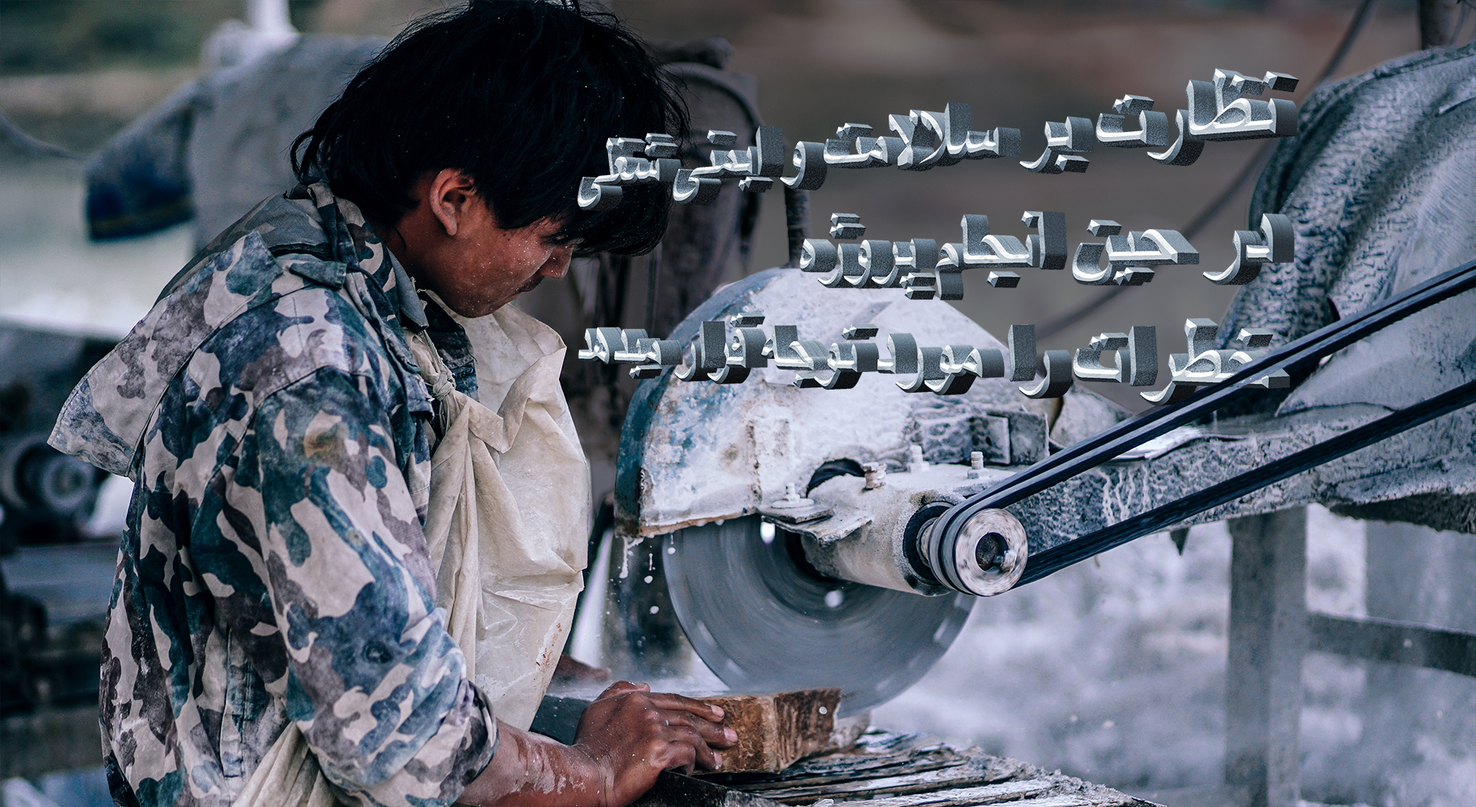
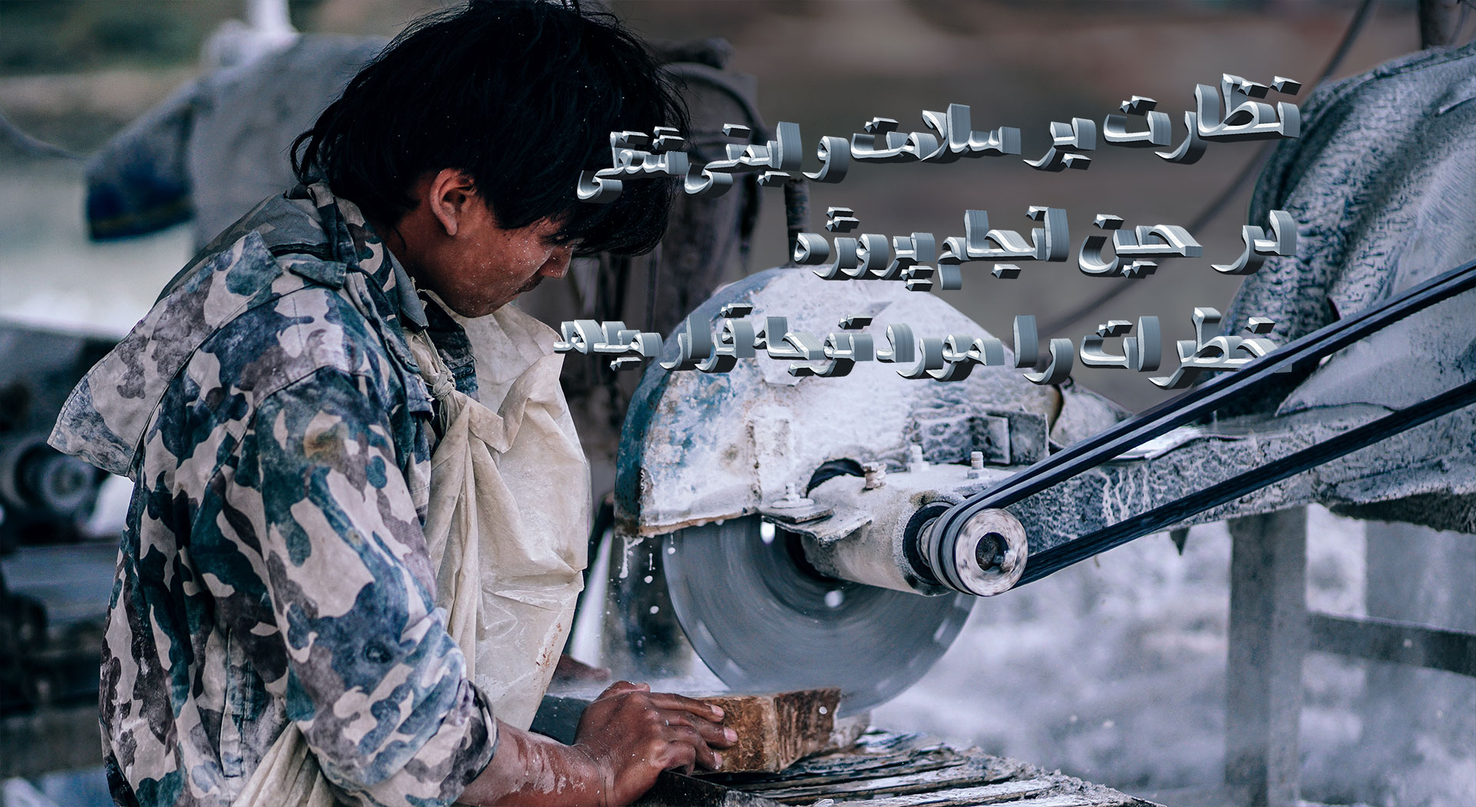
Multiple changes

Changed region(s): [[0.375, 0.0914, 0.9062, 0.5181]]

diff --git a/fa/index.html b/fa/index.html
@@ -92,24 +92,30 @@
 					</div>
 				</div>
 				<div class="Content" id="Intro__Content">
-					<svg class="Graph" xmlns="http://www.w3.org/2000/svg" viewBox="-50 0 1923.42 1168"><defs><style>.cls-1{fill:#929497;}.cls-2{fill:#58595b;}.cls-3{fill:#e5e6e7;}.cls-10,.cls-4,.cls-8{fill:#6c6c6c;}.cls-5,.cls-6,.cls-7,.cls-9{font-size:18px;}.cls-11,.cls-5{fill:#fff;}.cls-10,.cls-5,.cls-6,.cls-8{font-family:'DIN';}.cls-6{letter-spacing:0.2em;}.cls-11,.cls-7,.cls-9{font-family:'DIN';}.cls-10,.cls-7{letter-spacing:0.05em;}.cls-9{letter-spacing:0.05em;}.cls-11{font-family:'DIN';font-size:40px;}</style></defs><title>Artboard 2</title><circle cx="168.52" cy="168.52" r="67.41" transform="translate(-38.34 286.87) rotate(-74.78)"/><path class="cls-1" d="M72.85,307.26l25.4-44a118,118,0,0,1,0-189.51l-25.4-44a168.54,168.54,0,0,0,0,277.48Z"/><path class="cls-2" d="M121.59,60.27A118,118,0,0,1,285.72,155h50.79A168.59,168.59,0,0,0,96.19,16.28Z"/><path class="cls-3" d="M285.72,182a118,118,0,0,1-164.13,94.77l-25.4,44A168.61,168.61,0,0,0,336.51,182Z"/><circle cx="1726.52" cy="704.52" r="50.59" transform="translate(593.33 2185.44) rotate(-74.78)"/><path class="cls-1" d="M1654.72,808.65l19.06-33a88.55,88.55,0,0,1,0-142.23l-19.06-33a126.49,126.49,0,0,0,0,208.25Z"/><circle cx="1466.46" cy="1041.52" r="50.59" transform="translate(76.39 2183) rotate(-74.78)"/><path class="cls-2" d="M1431.23,960.28a88.58,88.58,0,0,1,123.18,71.12h38.12a126.52,126.52,0,0,0-180.36-104.14Z"/><circle cx="622.15" cy="343.52" r="50.59" transform="translate(127.3 853.63) rotate(-74.78)"/><path class="cls-3" d="M710.11,353.64a88.57,88.57,0,0,1-123.18,71.13l-19.07,33A126.52,126.52,0,0,0,748.22,353.64Z"/><line class="cls-4" x1="763.23" y1="169.04" x2="880.23" y2="286.04"/><rect class="cls-4" x="820.73" y="144.81" width="2" height="165.46" transform="translate(79.78 647.69) rotate(-45)"/><polygon class="cls-4" points="1123.93 528.34 1122.52 526.92 1122.52 526.92 1006.93 411.34 1005.52 412.75 1121.1 528.34 1005.52 643.92 1006.93 645.34 1122.52 529.75 1122.52 529.75 1123.93 528.34 1123.93 528.34 1123.93 528.34"/><polygon class="cls-4" points="782.02 866.16 783.43 867.58 783.43 867.58 899.02 983.16 900.43 981.75 784.85 866.16 900.43 750.58 899.02 749.16 783.43 864.75 783.43 864.75 782.02 866.16 782.02 866.16 782.02 866.16"/>
+					<svg class="Graph" xmlns="http://www.w3.org/2000/svg" viewBox="-50 0 1923.42 1168"><defs><style>.cls-1{fill:#929497;}.cls-2{fill:#58595b;}.cls-3{fill:#e5e6e7;}.cls-10,.cls-4,.cls-8{fill:#6c6c6c;}.cls-5,.cls-6,.cls-7,.cls-9{font-size:18px;}.cls-11,.cls-5{fill:#fff;}.cls-10,.cls-5,.cls-6,.cls-8{font-family:'DIN';}.cls-6{}.cls-11,.cls-7,.cls-9{font-family:'DIN';}.cls-10,.cls-7{}.cls-9{}.cls-11{font-family:'DIN';font-size:40px;}</style></defs><title>Artboard 2</title><circle cx="168.52" cy="168.52" r="67.41" transform="translate(-38.34 286.87) rotate(-74.78)"/><path class="cls-1" d="M72.85,307.26l25.4-44a118,118,0,0,1,0-189.51l-25.4-44a168.54,168.54,0,0,0,0,277.48Z"/><path class="cls-2" d="M121.59,60.27A118,118,0,0,1,285.72,155h50.79A168.59,168.59,0,0,0,96.19,16.28Z"/><path class="cls-3" d="M285.72,182a118,118,0,0,1-164.13,94.77l-25.4,44A168.61,168.61,0,0,0,336.51,182Z"/><circle cx="1726.52" cy="704.52" r="50.59" transform="translate(593.33 2185.44) rotate(-74.78)"/><path class="cls-1" d="M1654.72,808.65l19.06-33a88.55,88.55,0,0,1,0-142.23l-19.06-33a126.49,126.49,0,0,0,0,208.25Z"/><circle cx="1466.46" cy="1041.52" r="50.59" transform="translate(76.39 2183) rotate(-74.78)"/><path class="cls-2" d="M1431.23,960.28a88.58,88.58,0,0,1,123.18,71.12h38.12a126.52,126.52,0,0,0-180.36-104.14Z"/><circle cx="622.15" cy="343.52" r="50.59" transform="translate(127.3 853.63) rotate(-74.78)"/><path class="cls-3" d="M710.11,353.64a88.57,88.57,0,0,1-123.18,71.13l-19.07,33A126.52,126.52,0,0,0,748.22,353.64Z"/><line class="cls-4" x1="763.23" y1="169.04" x2="880.23" y2="286.04"/><rect class="cls-4" x="820.73" y="144.81" width="2" height="165.46" transform="translate(79.78 647.69) rotate(-45)"/><polygon class="cls-4" points="1123.93 528.34 1122.52 526.92 1122.52 526.92 1006.93 411.34 1005.52 412.75 1121.1 528.34 1005.52 643.92 1006.93 645.34 1122.52 529.75 1122.52 529.75 1123.93 528.34 1123.93 528.34 1123.93 528.34"/><polygon class="cls-4" points="782.02 866.16 783.43 867.58 783.43 867.58 899.02 983.16 900.43 981.75 784.85 866.16 900.43 750.58 899.02 749.16 783.43 864.75 783.43 864.75 782.02 866.16 782.02 866.16 782.02 866.16"/>
 						
 					<text class="cls-5" transform="translate(210.92 174.38)">ورای تحریم ها</text>
-					<text class="cls-6" transform="translate(615.9 174.38)">رویکرد چند جانبه</text>
+					<text class="cls-6" transform="translate(615.9 174.38)">رویکرد چند جانبه</text> 	
 						
-					<text class="cls-7" transform="translate(1200 350.04)">
+					<text class="cls-7" transform="translate(1180 350.04)">
 						<tspan>انتخاب درست روابط تجاری مستلزم استفاده از روشهای</tspan>
-						<tspan x="5" y="21.6">ارزیابی پیشینی برای شرکا و تامین کنندگان است.</tspan>						
+					</text>
+					<text class="cls-7" transform="translate(1180 371.64)">
+						<tspan>ارزیابی پیشینی برای شرکا و تامین کنندگان است.</tspan>		
 					</text>
 						
-					<text class="cls-9" transform="translate(1350 691.4)">
+					<text class="cls-9" transform="translate(1310 691.4)">
 						<tspan>نجاندن موضوعات کسب و کار مسوولانه در قراردادها میتواند منجر</tspan>
-						<tspan x="20" y="21.6">به الزام عملی این موضوعات توسط شرکا و تامین کنندگان شود.</tspan>
+					</text>
+					<text class="cls-9" transform="translate(1310 712)">
+						<tspan>به الزام عملی این موضوعات توسط شرکا و تامین کنندگان شود.</tspan>
 					</text>
 					
-					<text class="cls-7" transform="translate(1200 1040.39)">
-						<tspan>تدارک مشارکت و تشریک دانش تخصصی با شرکا و تامین کنندگان بمنظور</tspan>
-						<tspan x="100" y="21.6">بهبود عملکرد آنها موجب همکاری و حمایت مستمر میشود</tspan>
+					<text class="cls-7" transform="translate(1260 1040.39)">
+						<tspan>تدارک مشارکت و تشریک دانش تخصصی با شرکا و تامین کنندگان بمنظور</tspan>     
+					</text>
+					<text class="cls-7" transform="translate(1260 1061.99)">
+						<tspan >بهبود عملکرد آنها موجب همکاری و حمایت مستمر میشود</tspan>       
 					</text>
 					
 					<text class="cls-11" transform="translate(1479 1062)">۳</text><text class="cls-11" transform="translate(1738 720)">۲</text><text class="cls-11" transform="translate(633 360.57)">۱</text></svg>		
@@ -169,7 +175,7 @@
 				<div class="StoryBoxes" data-style="Reverse">
 					<div>
 						<div class="Box First" data-style="Light">
-							<div class="Label" data-style="Dark">IBR insights on Iran</div>
+							<div class="Label" data-style="Dark">مشاهدات IBR در مورد ایران</div>
 							<h3><span>۱.۲</span> ارزیابی و ممیزی اقدامات مرتبط با سلامت و ایمنی شغلی و محیط زیست در ایران ضروری ست</h3>
 							<ul class="List">
 								<li>استانداردهای ضعیف، توجه ناچیز به موضوع سلامت و ایمنی شغلی
@@ -204,7 +210,6 @@
 							<h3><span>۱.۲</span> ارزیابی و ممیزی میتواند موجب بهبود روند مقابله با مخاطرات مرتبط با سلامت و امنیت شغلی شود</h3>
 							<ul class="List">
 								<li>رقم مرگ و میر ناشی از حوادث کار در ایران ٨ برابر میانگین جهانی است </li>
-								<li>سقوط از بلندی و قطع عضو شایع ترین حوادث ناشی از کار هستند</li>
 								<li>سقوط از بلندی و قطع عضو شایع ترین حوادث ناشی از کار هستند</li>
 								<li>اختلالات اسکلتی-عضلانی، اختلالات تنفسی و ناشنوایی ناشی از کار در فضای آلوده صوتی، شایع ترین بیماریهای  اشی از کار هستند</li>
 							</ul>
